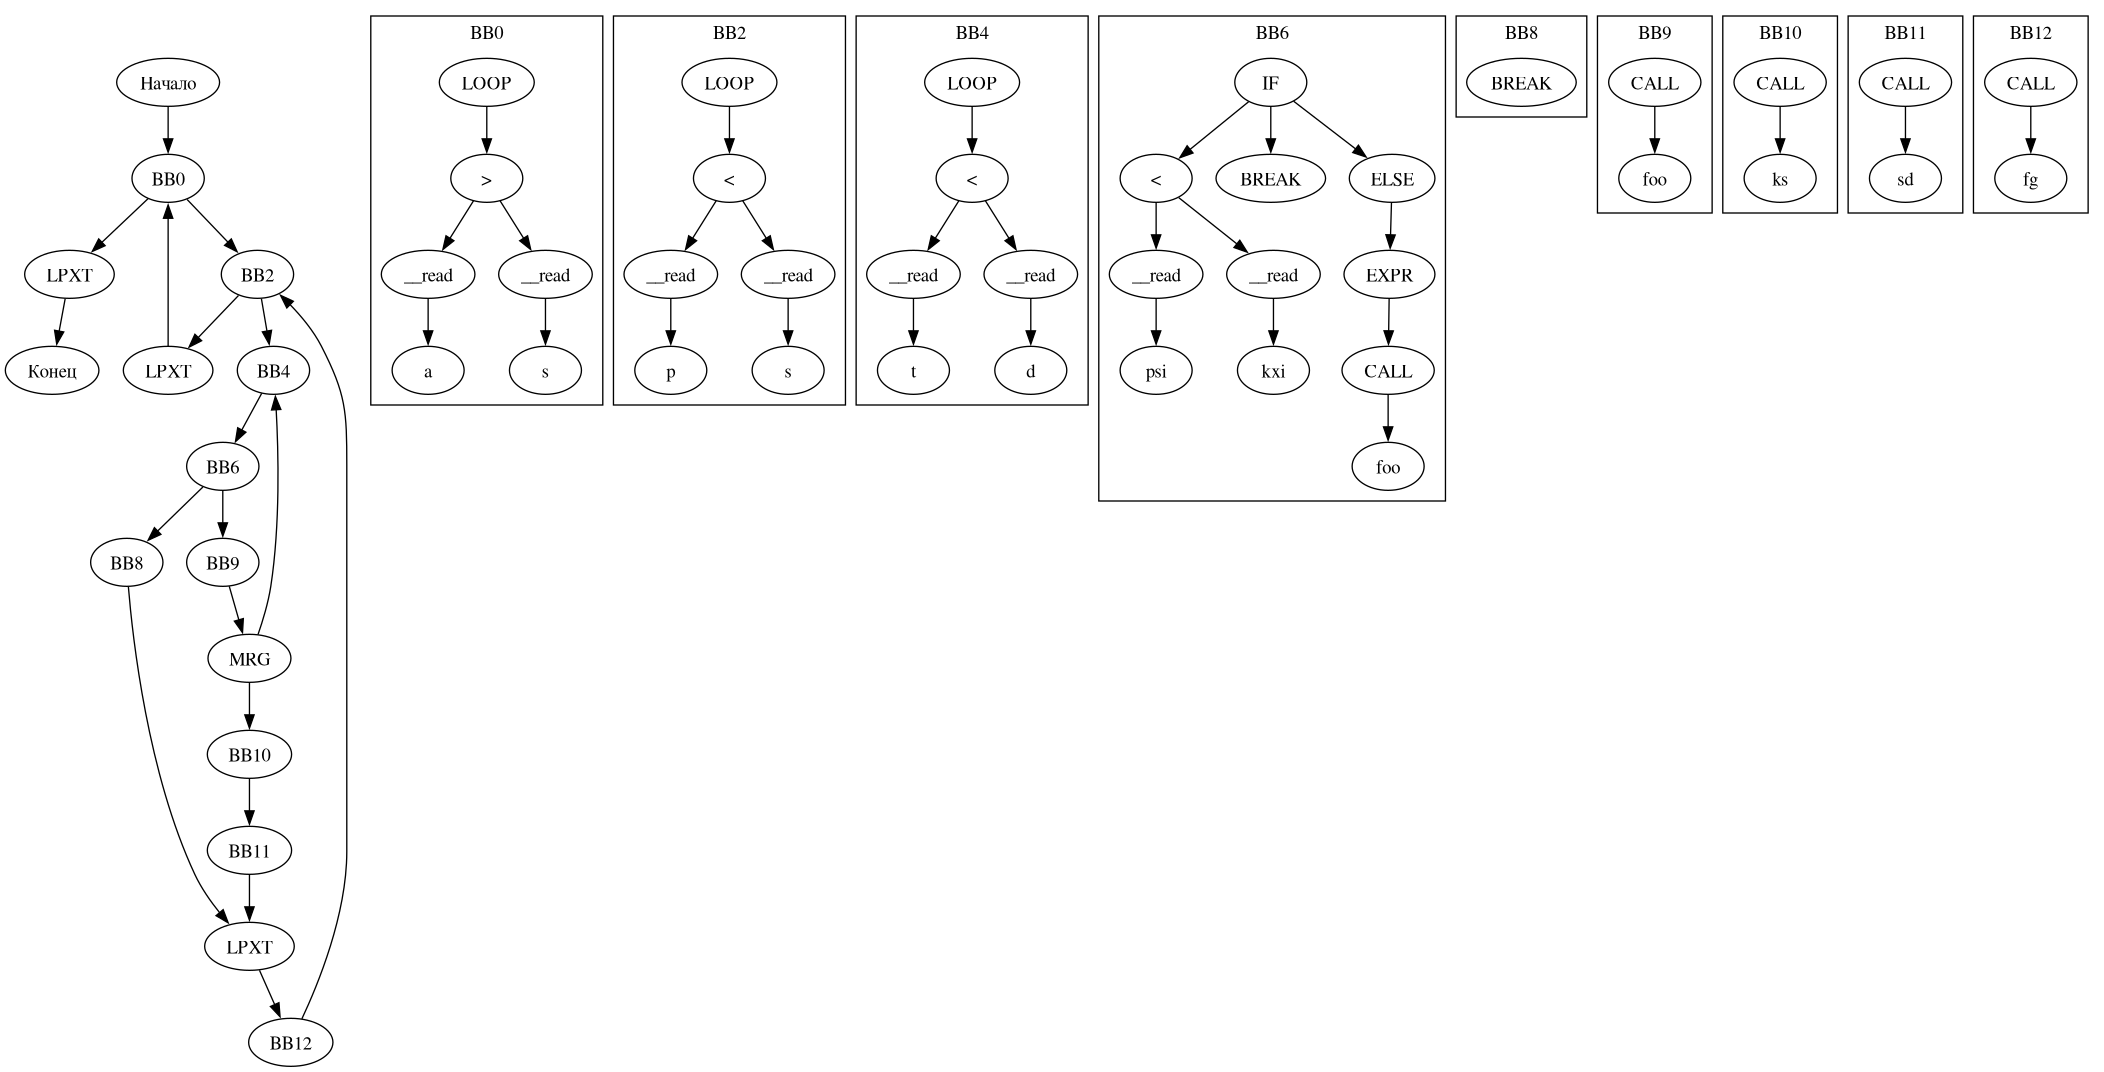
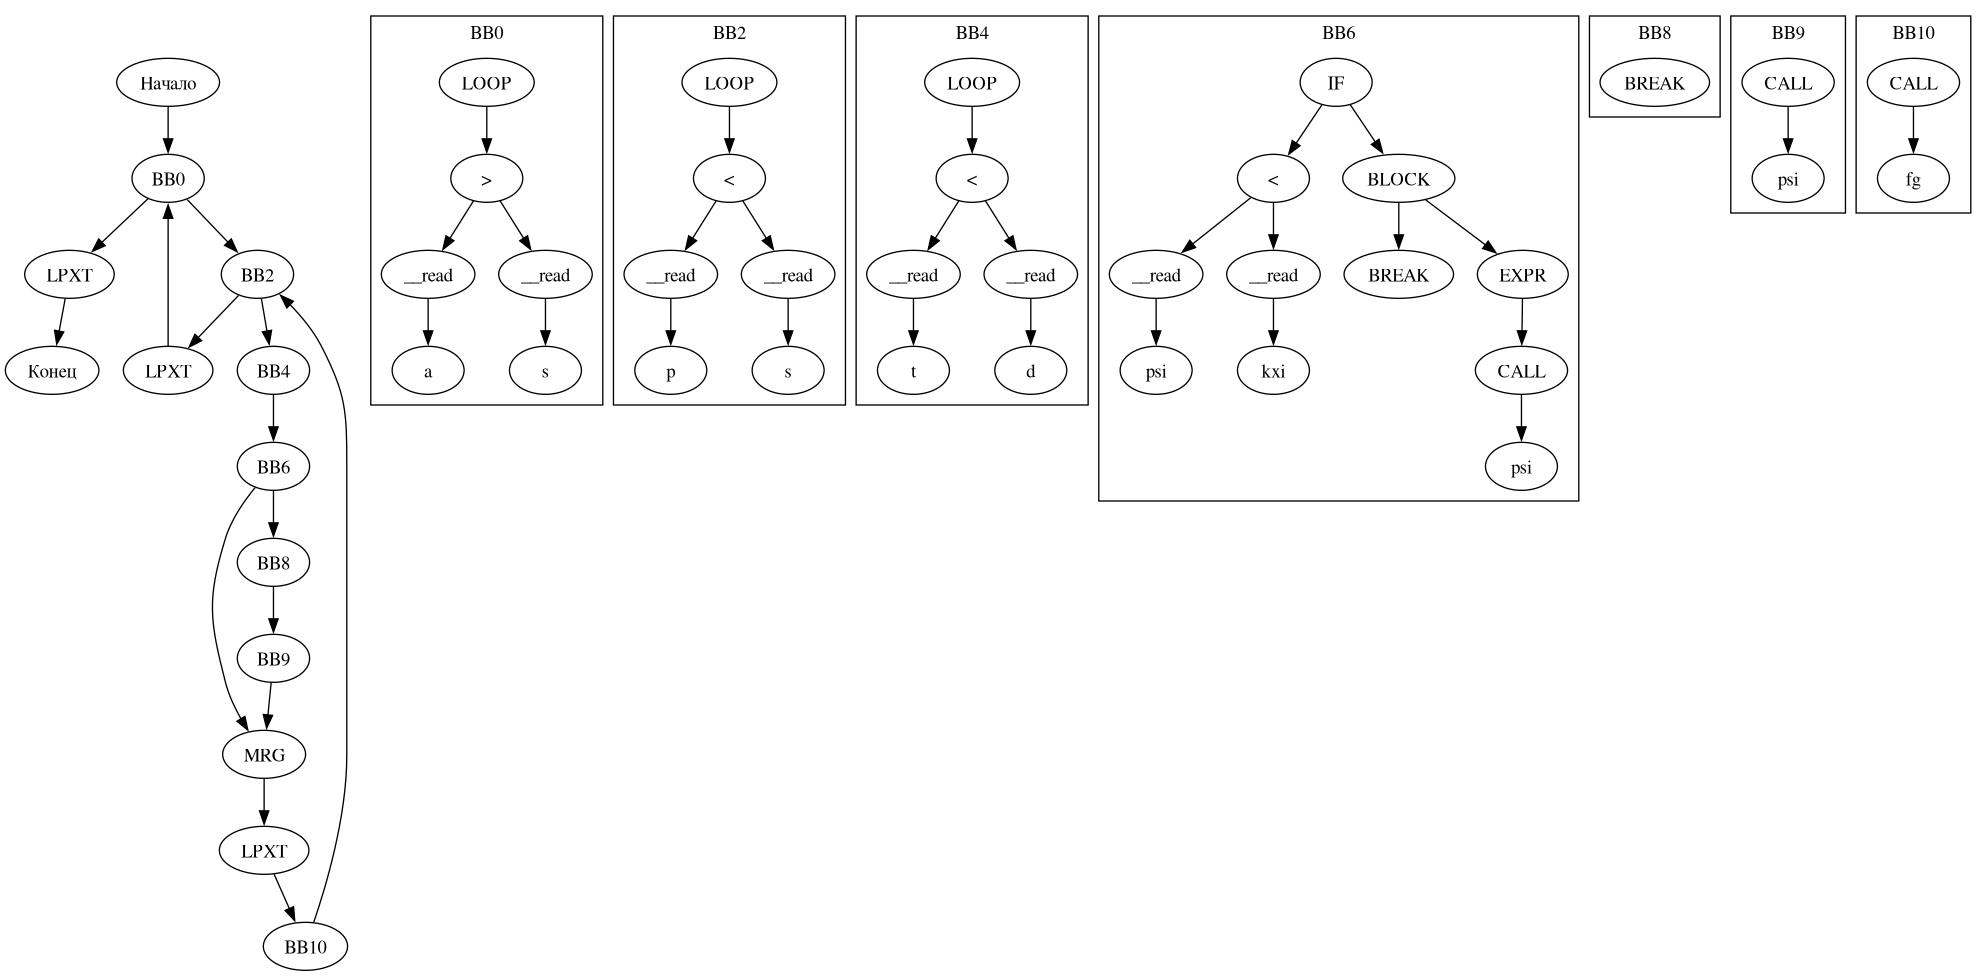
almost close

diff --git a/Lab-2/src/CFGNodeProcessing.c b/Lab-2/src/CFGNodeProcessing.c
@@ -26,28 +26,25 @@ void cfgWalkerProcessIfNode(CFG* cfg,
     BasicBlock* mergeBlock = createBasicBlock(NULL, merge);
     addBasicBlock(cfg, mergeBlock);
     int mergeBlockIndex = cfg->block_count - 1;
-    if (cfg->loopLevelStack->currentLevel >= 0) {
-        if (*childCount > 1) {
-            cfgWalker(cfg, getChild(node, 1), &ifBlockIter);
-            if (!cfg->loopLevelStack->entries[cfg->loopLevelStack->currentLevel].breakDetected) {
-                addSuccessor(cfg->blocks[ifBlockIter], mergeBlockIndex);
-            } else {
-                addSuccessor(cfg->blocks[ifBlockIter], getCurrentLoopEntry(cfg->loopLevelStack).exitBlockIndex);
-                addSuccessor(cfg->blocks[mergeBlockIndex], getCurrentLoopEntry(cfg->loopLevelStack).loopIndex);
-            }
-            if (*childCount == 2) {
-                addSuccessor(cfg->blocks[ifBlockIndex], mergeBlockIndex);
-            }
-        }
 
-        if (*childCount > 2) {
-            int elseBlockIter = ifBlockIndex;
-            cfgWalker(cfg, getChild(node, 2), &elseBlockIter);
-            addSuccessor(cfg->blocks[elseBlockIter], mergeBlockIndex);
-            //}
+    if (*childCount > 1) {
+        cfgWalker(cfg, getChild(node, 1), &ifBlockIter);
+        addSuccessor(cfg->blocks[ifBlockIter], mergeBlockIndex);
+        if (*childCount == 2) {
+            addSuccessor(cfg->blocks[ifBlockIndex], mergeBlockIndex);
+        }
+        if(cfg->loopLevelStack->entries[cfg->loopLevelStack->currentLevel].breakDetected) {
+            addSuccessor(cfg->blocks[mergeBlockIndex], getCurrentLoopEntry(cfg->loopLevelStack).loopIndex);
+            //addSuccessor(cfg->blocks[ifBlockIndex], getCurrentLoopEntry(cfg->loopLevelStack).exitBlockIndex);
+            //addSuccessor(cfg->blocks[mergeBlockIndex], getCurrentLoopEntry(cfg->loopLevelStack).loopIndex);
         }
     }
 
+    else if (*childCount > 2) {
+        int elseBlockIter = ifBlockIndex;
+        cfgWalker(cfg, getChild(node, 2), &elseBlockIter);
+        addSuccessor(cfg->blocks[elseBlockIter], mergeBlockIndex);
+    }
     *lastBlockIndex = mergeBlockIndex;
 }
 
@@ -82,7 +79,7 @@ void cfgWalkerProcessLoopNode(CFG* cfg,
         cfgWalker(cfg, child, &loopBlockIter);
         if (getCurrentLoopEntry(cfg->loopLevelStack).breakDetected) {
             *breakDetected = 1; // запрещаем обработку дальнейших нод
-            //break;
+            break;
         }
     }
     if(!(cfg->loopLevelStack->entries[cfg->loopLevelStack->currentLevel].breakDetected)) {
@@ -242,7 +239,7 @@ void cfgWalker(CFG* cfg, AST* node, int* lastBlockIndex)
                                lastBlockIndex,
                                &childCount,
                                &breakDetected);
-        //if (breakDetected) return;
+        if (breakDetected) return;
     }
     else if (strcmp(name, "LOOP") == 0) {
         cfgWalkerProcessLoopNode(cfg,

diff --git a/Lab-2/src/InputOptions.c b/Lab-2/src/InputOptions.c
@@ -18,7 +18,6 @@ void deleteFileIfExists(const char* filename) {
 void processInput(int argc, char** argv) {
     const char* outputDir = argv[1];
     File** files = (File**)malloc((argc-2)*sizeof(File*));
-
     for (int i = 2; i < argc; ++i) {
         char *inputText = readFileToString(argv[i]);
         pParseResult parseResult = parse(inputText);
@@ -54,4 +53,5 @@ void processInput(int argc, char** argv) {
         // Очистка
         free(inputText);
     }
+    free(files);
 }
